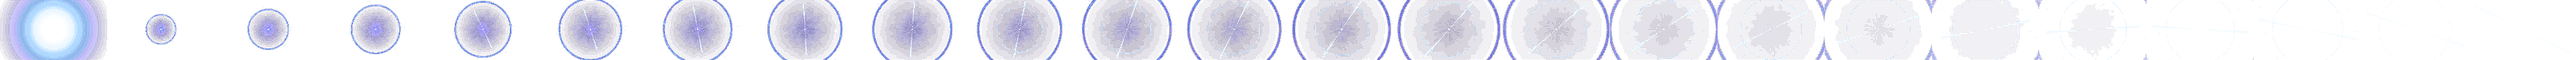
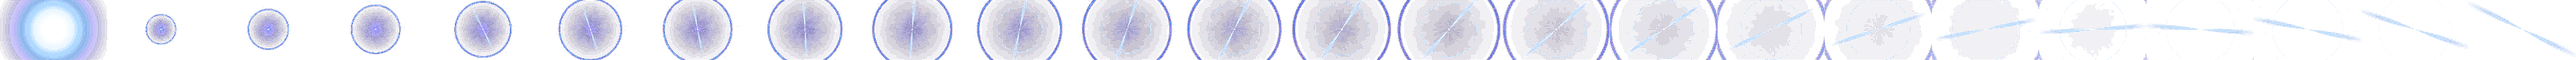
Polish the Starwright neutron star blast
The neutron blast drew one thin white line for its pulsar beams, which read as a glitch
over the blast. Two opposite tapered beams replace it: wide at the core, thinning out
toward their reach, dithered through the blue ramp. Supernova and black hole sheets are
unchanged. Art regenerated with VERSION 8.

Docs: ART-ending-blast done in the Starwright backlog, feature row added.

Claude-Session: https://claude.ai/code/session_01Pmx9dVxP4YN8GKezgZUQRN

Changed region(s): [[0.8125, 0.4167, 0.875, 0.5278], [0.7812, 0.5, 0.8125, 0.5278]]

diff --git a/scripts/starwright/art/stars.py b/scripts/starwright/art/stars.py
@@ -230,9 +230,12 @@ def nova(kind):
         vis = dmask(np.clip(v * 1.4, 0, 1) * fade)
         col = pick(hot, 1 - v * (1 - t * 0.5))
         out[vis] = col[vis]; m |= vis
-        if kind == "neutron" and t > 0.15:  # beams from the new pulsar
-            beam = (np.abs(np.sin(ang - 0.6 - t * 3)) < 0.03) & (d < 40 + 120 * t) & dmask(np.full(d.shape, 0.8 * fade + 0.2))
-            out[beam] = hexc(P["frost"]); m |= beam
+        if kind == "neutron" and t > 0.15:  # two opposite pulsar beams: a tapered cone, wide at the core, thin at its reach, dithered
+            reach = 40 + 150 * t
+            half = 0.05 + 0.09 * (1 - np.clip(d / reach, 0, 1))  # angular half-width, shrinking outward
+            bv = np.clip(1 - np.abs(np.sin(ang - 0.6 - t * 3)) / half, 0, 1) * np.clip(1 - d / reach, 0, 1) * (0.55 + 0.45 * fade)
+            beam = (d < reach) & (bv > 0.02) & dmask(np.clip(bv * 1.6, 0, 1))
+            out[beam] = pick(R("azure", "sky", "frost", "white"), np.clip(bv * 1.2, 0, 1))[beam]; m |= beam
         # bright knots of debris flung out along rays, ahead of the shell, trailing short streaks
         rng = np.random.default_rng(7 if kind == "supernova" else 9)
         for j in range(42):

diff --git a/scripts/starwright/art/build.py b/scripts/starwright/art/build.py
@@ -1,7 +1,7 @@
 """Build every Starwright art sheet into public/starwright/ and write manifest.json. Run: python3 scripts/starwright/art/build.py"""
 import time
 import common, stars, planets, scenery, icons
-VERSION = 7
+VERSION = 8
 
 if __name__ == "__main__":
     t = time.time()

diff --git a/docs/games/starwright/BACKLOG.md b/docs/games/starwright/BACKLOG.md
@@ -22,13 +22,14 @@ Before any change: `npm run test:nodefarm`. Visual changes also need PNG screens
 12b. [x] **Ladder rows and phone fold (Nate, 2026-11-16).** Buy buttons no longer cover level, rate or recipe at 1440 and 390; phone star shortened so the first ladder row shows above the fold. Shots in `portfolio/starwright/ladder-fit/`. The "Scroll for the ladder" cue still needs placing for the shorter shell panel once that PR lands.
 13. [ ] **Welcome back and event cards: real-phone tap check.** Chips toggle the Almanac line on tap; confirm on a device (cloud tests are headless only). Also add a leaving animation once the audio/animations thread exposes its hook on `.sw-ev`.
 14. [ ] **Menu card fits at 1440x900.** The Menu is 3 px taller than its box (scrollHeight 845 vs 842) so it can show a scrollbar; trim spacing. Overflow thread may fix it first; check before starting.
+- [x] ART-ending-blast | size S | Neutron star blast: two tapered pulsar beams (wide at the core, thin at reach, dithered in the blue ramp) replace the single thin line that read as a glitch. Supernova and black hole sheets unchanged. Done when the before and after frames sit in `portfolio/starwright/ending-screens-2026-11-16/`. | `scripts/starwright/art/stars.py` (VERSION 8)
 
 ## Needs Nate (taste call or his own playtest)
 
 - **His own playthrough of the first star.** The first supernova is about 13 minutes for the bot; people are slower. Needs his notes on the first minute, the first visitor, and whether the guide line is clear. Blocks any further pacing change.
 - ~~Offline pacing~~ decided 2026-11-15: cap a few (3) supernovas per absence with auto supernova on. Done in the away-cap PR.
 - ~~Rule changes l5 Corona, a5 Iron rain, deep stars~~ signed off by Nate 2026-11-15.
-- **Next art pass.** Planet break-up chunks done (his pick 2026-11-15). Still offered, not picked: visitor and cloud cards, supernova and ending screens.
+- **Next art pass.** Planet break-up chunks done (his pick 2026-11-15). Ending screens: neutron beams done (ART-ending-blast). Still offered, not picked: visitor and cloud cards, supernova and black hole ending screens.
 - **Audio.** Rebuilt 2026-11-15 (see FEATURES). Needs him to listen: WAVs in `/mnt/project-files/portfolio/starwright/motion-audio-overhaul/audio/`, then volume levels and which sounds to change. Real Safari autoplay unchecked.
 
 ## Cannot be tested in the cloud (his devices)

diff --git a/docs/games/starwright/FEATURES.md b/docs/games/starwright/FEATURES.md
@@ -51,6 +51,7 @@ Test commands: `npm run test:nodefarm` (a PR check; includes `tests/starwright/*
 | Star sprite scale clamp (8x cap; keep it) | working | `art.ts` | none |
 | Planets stripped by a neutron star break into eight tumbling rock chunks that glow gold to ash over 1.7 s, drawn above the blast (`fx/planet-gone`, 96 px x 24 frames; `art.ts` after the blast) | working headless | `scripts/starwright/art/scenery.py` `fx_planet_gone`, `art.ts` | `scripts/starwright/ui-art/planet-break.mjs` (records the canvas) |
 | Sheet generators | working | `scripts/starwright/art/*` (`build.py`; bump `VERSION`) | none |
+| Neutron star blast: two tapered pulsar beams over the blast (`star/nova-neutron`, 24 frames, `nova()` in `stars.py`) | working | `scripts/starwright/art/stars.py`, `public/starwright/star/nova-neutron.png` | none; before and after frames in `portfolio/starwright/ending-screens-2026-11-16/` |
 | Lazy sprite loading (first needed, then two at a time) | working | `sprites.ts` | none |
 | Synthesized sound (33 sounds, no files): buy tiers I/II/III climb a pentatonic scale by row, ignitions are chords that rise with the element, each constellation lights in its own voice, menus open/close/switch/flip with their own cues, supernova/neutron/black hole differ. Off switch `sw-sound-v1`, volume Low/Medium/High `sw-volume-v1` (Menu > Settings) | working headless (rendered offline, none silent or clipping); **never heard by a person** | `lib/starwright/sound.ts` | `scripts/starwright/audio-render.mjs <dir>` writes a WAV per sound; `ui-art/motion-check.mjs` checks sounds are requested and muted ones are not |
 
